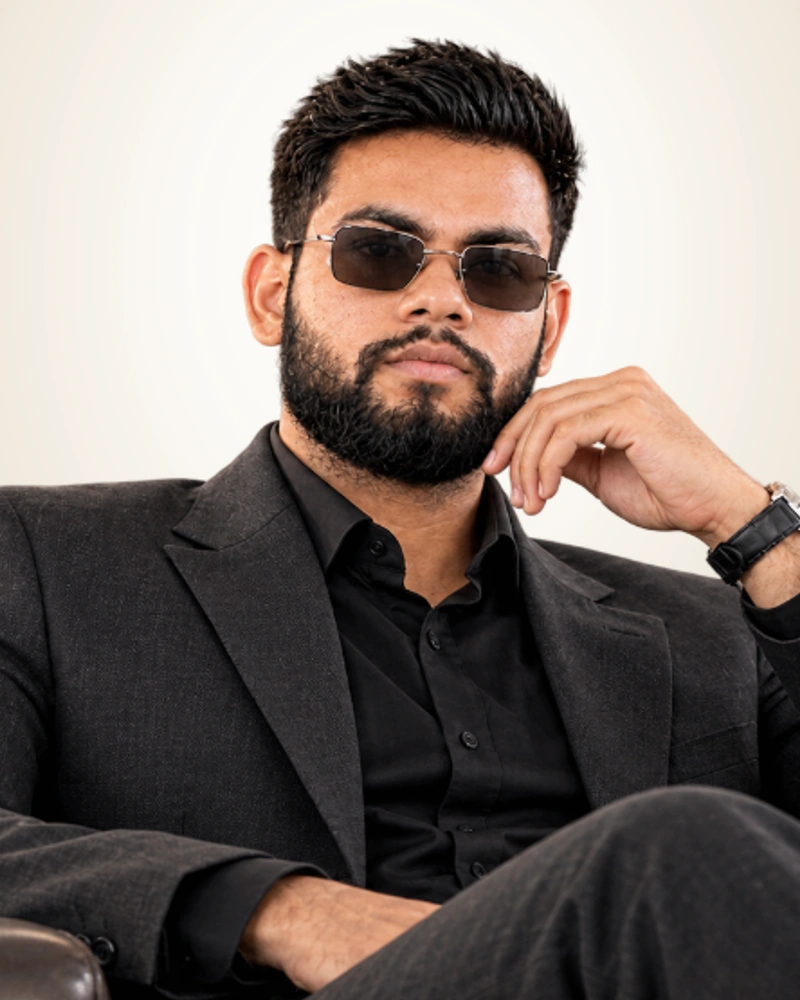
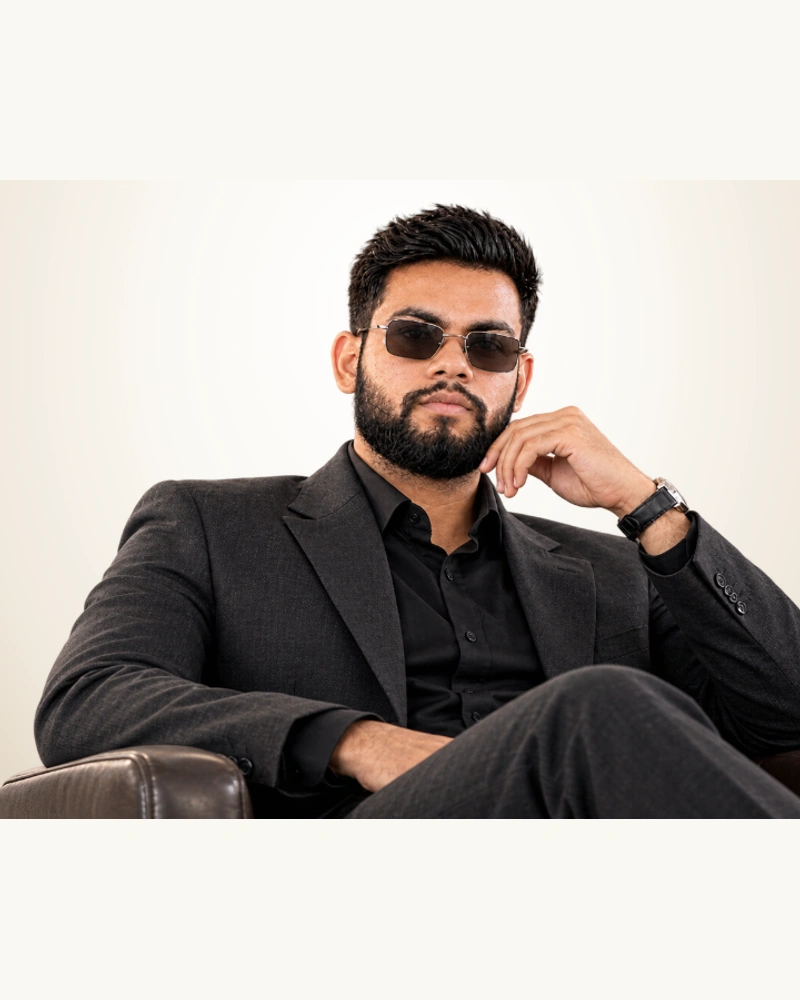
fix(spotlight): reverse spotlight card size and ensure complete portrait framing with full headroom

diff --git a/src/components/AboutSection.tsx b/src/components/AboutSection.tsx
@@ -150,7 +150,7 @@ export const AboutSection: React.FC = () => {
           {/* RIGHT: Magazine Spotlight Cards (5 Cols) */}
           <div className="lg:col-span-5 flex flex-col space-y-6">
 
-            {/* Founder Profile Feature Card (Compact Executive Spotlight) */}
+            {/* Founder Profile Feature Card */}
             <motion.div
               initial={{ opacity: 0, y: 20 }}
               whileInView={{ opacity: 1, y: 0 }}
@@ -159,41 +159,41 @@ export const AboutSection: React.FC = () => {
               className="editorial-card rounded-[4px] bg-[#FAF8F3] border border-[#CFC3B3] shadow-md overflow-hidden"
             >
               {/* Card Header Bar */}
-              <div className="px-4 py-2.5 sm:px-5 sm:py-2.5 flex items-center justify-between border-b border-[#DDD2C2] bg-[#F4EEE4]">
+              <div className="px-5 py-3 flex items-center justify-between border-b border-[#DDD2C2] bg-[#F4EEE4]">
                 <div className="flex items-center space-x-2">
-                  <span className="w-1.5 h-1.5 rounded-full bg-[#78000F] animate-pulse" />
-                  <span className="text-[9.5px] sm:text-[10px] font-mono uppercase tracking-[0.2em] text-[#78000F] font-bold">
+                  <span className="w-2 h-2 rounded-full bg-[#78000F] animate-pulse" />
+                  <span className="text-[10px] font-mono uppercase tracking-[0.2em] text-[#78000F] font-bold">
                     EXECUTIVE SPOTLIGHT
                   </span>
                 </div>
-                <span className="px-1.5 py-0.2 text-[8.5px] font-mono bg-[#E8F5EE] border border-[#B5DFCA] text-[#0F6848] rounded-[2px] font-semibold">
+                <span className="px-2 py-0.5 text-[9px] font-mono bg-[#E8F5EE] border border-[#B5DFCA] text-[#0F6848] rounded-[2px] font-semibold">
                   {spotlight.verifiedStatus || 'VERIFIED'}
                 </span>
               </div>
 
-              {/* Photo - Compact 4:5 Sizing */}
-              <div className="relative w-full aspect-[4/5] max-h-[400px] sm:max-h-[440px] overflow-hidden bg-[#FAF8F3]">
+              {/* Photo */}
+              <div className="relative w-full aspect-[4/5] overflow-hidden bg-[#FAF8F3]">
                 <img
                   src={spotlight.photoUrl || "/images/tarun-executive.webp"}
                   alt={`${spotlight.name} — ${spotlight.role}`}
                   loading="lazy"
                   decoding="async"
-                  width="300"
-                  height="350"
+                  width="600"
+                  height="750"
                   className="w-full h-full object-cover object-center transition-transform duration-700 hover:scale-[1.02]"
                 />
                 <div className="absolute inset-0 bg-gradient-to-t from-[#111111]/30 via-transparent to-transparent pointer-events-none" />
               </div>
 
               {/* Info Bar */}
-              <div className="px-4 py-3 sm:px-5 sm:py-3.5 bg-[#FAF8F3] border-t border-[#DDD2C2] flex items-center justify-between">
+              <div className="px-5 py-4 bg-[#FAF8F3] border-t border-[#DDD2C2] flex items-center justify-between">
                 <div>
-                  <h3 className="text-sm sm:text-base font-serif font-bold text-[#111111]">{spotlight.name}</h3>
-                  <p className="text-[10.5px] font-mono text-[#78000F] mt-0.5 font-medium">{spotlight.role}</p>
+                  <h3 className="text-base sm:text-lg font-serif font-bold text-[#111111]">{spotlight.name}</h3>
+                  <p className="text-[11px] font-mono text-[#78000F] mt-0.5 font-medium">{spotlight.role}</p>
                 </div>
                 <div className="text-right">
-                  <span className="text-[8.5px] font-mono text-[#8C8275] block uppercase tracking-wider">LEADERSHIP</span>
-                  <span className="text-[10.5px] font-mono text-[#202020] font-semibold">{spotlight.leadership}</span>
+                  <span className="text-[9px] font-mono text-[#8C8275] block uppercase tracking-wider">LEADERSHIP</span>
+                  <span className="text-[11px] font-mono text-[#202020] font-semibold">{spotlight.leadership}</span>
                 </div>
               </div>
             </motion.div>
